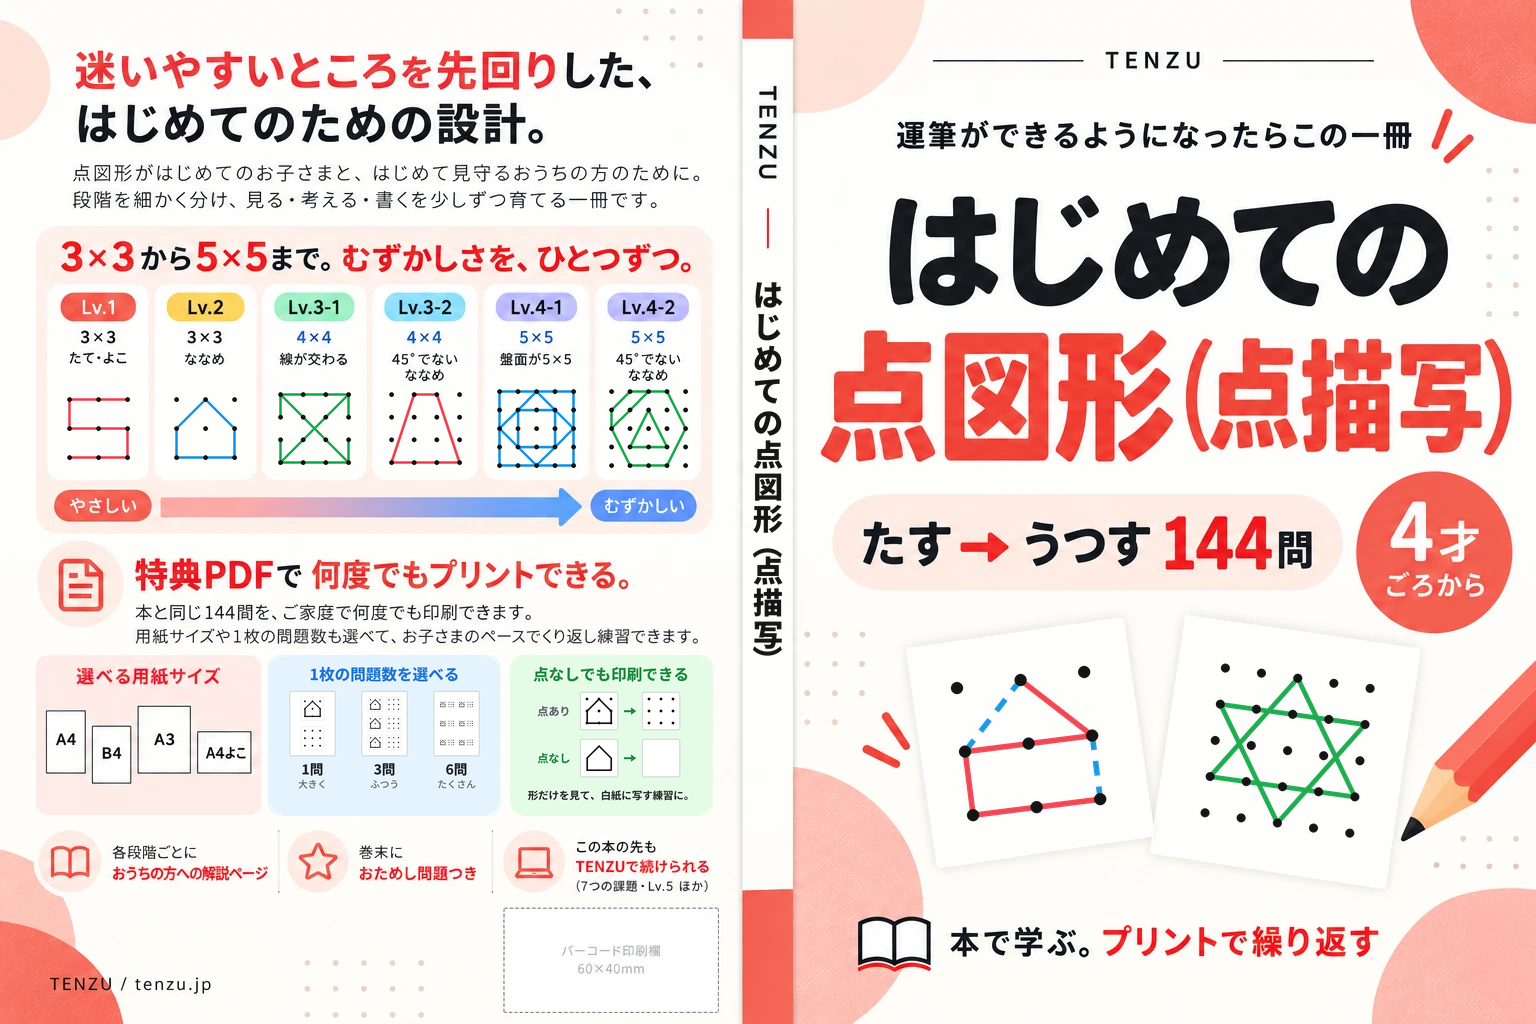
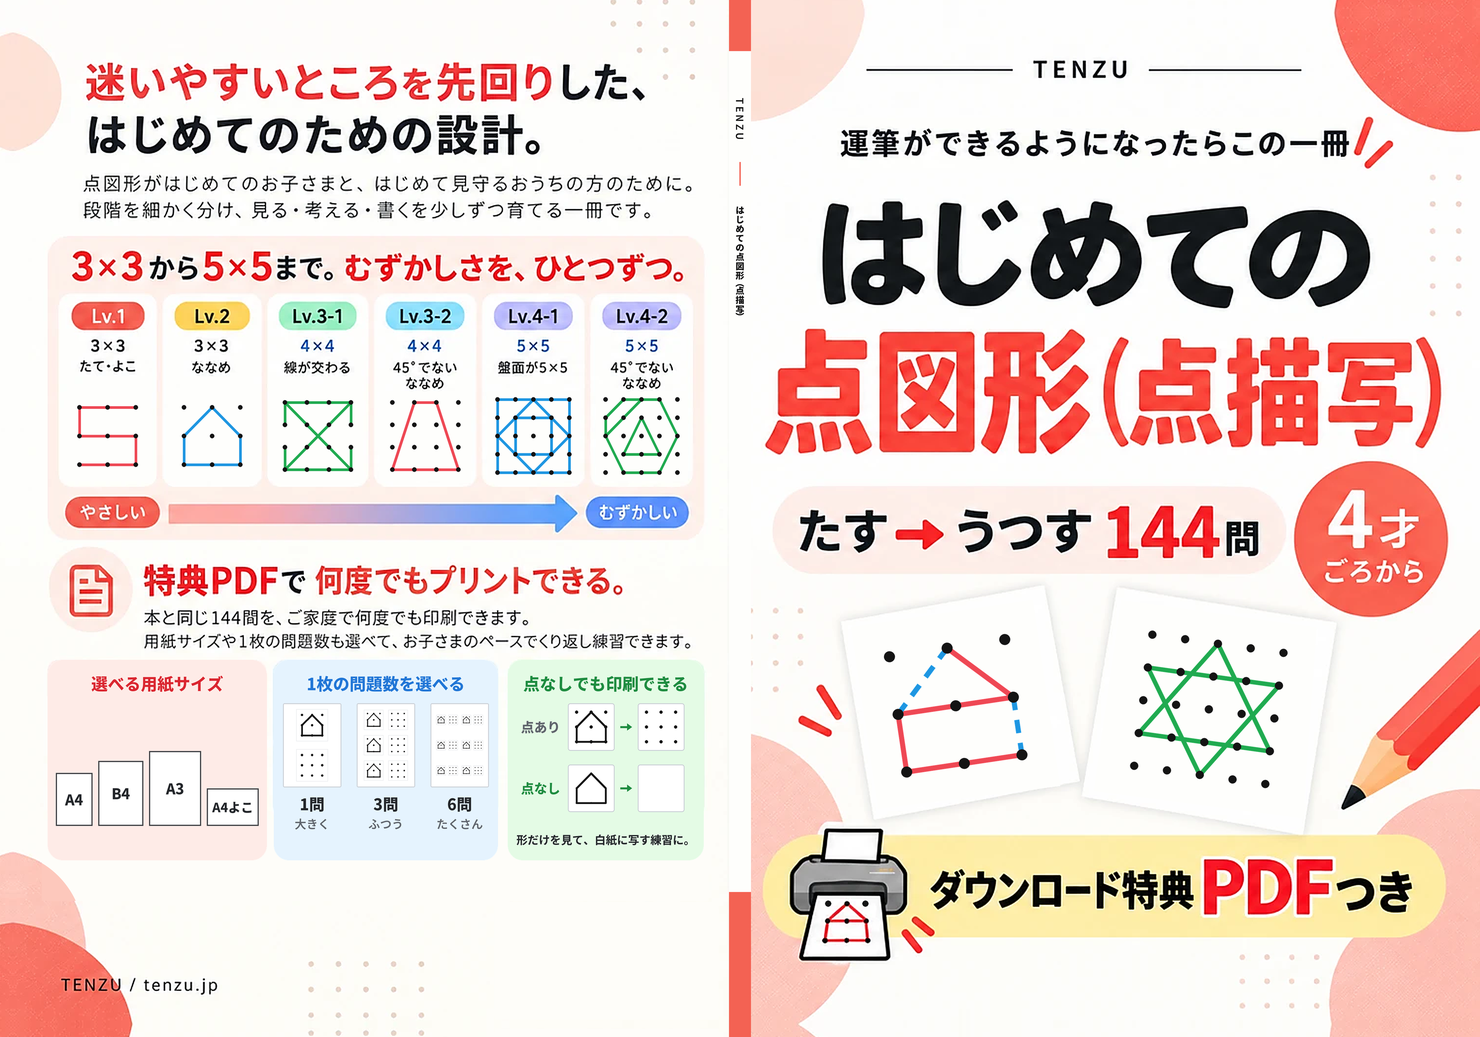
fix(kdp,coupon): 表紙の背幅を98ページ（5.6056mm）で組み直し、クーポンの「メールにつき1回」の文言を画面から外す
- cover-plan1-kdp.py：SPINE を 98×0.0572 に、背の題名は左右1.6mmを空けて文字幅2.4mmに。全幅 376.0056mm
- CouponField の注記と ALREADY_USED から「1つのメールアドレスにつき1回」を外す（抜け道を教えないため）

diff --git a/web/app/lib/coupon.ts b/web/app/lib/coupon.ts
@@ -22,7 +22,7 @@ export const PURCHASED_COOKIE = "tenzu_purchased";
 /** ブラウザが受け付ける最長（400日）。買い物のたびに延びる。 */
 export const PURCHASED_TTL = 60 * 60 * 24 * 400;
 export const ALREADY_PURCHASED = "このクーポンは、TENZUではじめてのお買い物のときだけ使えます。";
-export const ALREADY_USED = "このクーポンは、1つのメールアドレスにつき1回だけ使えます。";
+export const ALREADY_USED = "このクーポンは、このメールアドレスではご利用済みです。";
 /** Promotion Code の metadata `tenzu_rule` で「メールごとに1回」を示す値。 */
 export const ONCE_PER_EMAIL = "once-per-email";
 

diff --git a/web/app/components/CouponField.tsx b/web/app/components/CouponField.tsx
@@ -62,7 +62,7 @@ export default function CouponField({ onChange }: {
             <input type="email" autoComplete="email" value={email}
               onChange={(e) => { setEmail(e.target.value); onChange({ coupon, email: e.target.value }); }} />
           </label>
-          <p className="coupon-field-note">決済画面でも、このメールアドレスを使います。1つのメールアドレスにつき1回です。</p>
+          <p className="coupon-field-note">決済画面でも、このメールアドレスを使います。</p>
         </>
       )}
     </details>

diff --git a/docs/drafts/kdp/first-patterns-216/cover-plan1-redraw.py b/docs/drafts/kdp/first-patterns-216/cover-plan1-redraw.py
@@ -1,4 +1,4 @@
-"""表紙案（cover-plan1-v2-source.webp）を直す。図形＝公開済みの実問題・背の題名・裏の2パネル（案A/案B）。
+"""表紙案（cover-plan1-v2-source.webp）を直す。図形＝公開済みの実問題・背の題名・裏の3パネル（下段を外して大きく）。
 座標はすべて元画像（1536×1024）の px。K 倍で書き出すと、元画像は拡大し、描き直す部分は K 倍の解像度で描く。
 使い方: python cover-plan1-redraw.py <src> <published_dir> <outdir> [K]"""
 import json, math, sys
@@ -170,8 +170,12 @@ class Panel:
 
 
 HOUSE = problem("copy-lv2-vol1", 4)
-PX0, PY0, PX1, PY1 = 269, 655, 712, 816  # 青と緑の2枚が占める範囲
-BX1, GX0 = 500, 510
+# 裏の3枚（用紙サイズ・問題数・点なし）。下段を外した分だけ下へ伸ばし、文字と絵を大きくする。
+# 下端 858 は KDP が右下に置くバーコード（元画像の y 877 あたりから下）にかからない高さ。
+PY0, PY1 = 655, 858
+PINK_X, BLUE_X, GREEN_X = (36, 262), (269, 500), (510, 712)
+PINK_BG = (254, 235, 231)
+RED_T = (218, 38, 48)
 
 
 def sheet(p, x, y, w, h, rows, cols, stacked=False):
@@ -198,84 +202,71 @@ def sheet(p, x, y, w, h, rows, cols, stacked=False):
                              max(0.35, pane * 0.035) * SS, max(0.45, pane * 0.05) * SS)
 
 
-def variant_a(base):
-    """案A：仕上がりの紙面を見せる（2枚のまま、中身を実物に近い図へ）。"""
-    b = Panel(PX0, PY0, BX1, PY1, BLUE_BG)
-    W = BX1 - PX0
-    b.text(W / 2, 19, "1枚の問題数を選べる", 15.5, BLUE_T, 800)
-    sw, sh, top = 46, 65, 36
-    xs = [W / 2 - 72, W / 2, W / 2 + 72]
+def panels(base):
+    p = Panel(PINK_X[0], PY0, PINK_X[1], PY1, PINK_BG)
+    W = PINK_X[1] - PINK_X[0]
+    p.text(W / 2, 24, "選べる用紙サイズ", 17, RED_T, 800)
+    s_ = 0.18  # mm → px
+    papers = [("A4", 210, 297), ("B4", 257, 364), ("A3", 297, 420), ("A4よこ", 297, 210)]
+    gap = 6
+    total = sum(w * s_ for _, w, _ in papers) + gap * (len(papers) - 1)
+    x = W / 2 - total / 2
+    base_y = 168
+    for label, w, h in papers:
+        w, h = w * s_, h * s_
+        p.rect(x, base_y - h, x + w, base_y, fill=(255, 255, 255, 255), outline=(60, 62, 66), width=1.1)
+        p.text(x + w / 2, base_y - h / 2, label, 13 if len(label) > 2 else 15, TXT, 800)
+        x += w + gap
+    p.paste(base)
+
+    b = Panel(BLUE_X[0], PY0, BLUE_X[1], PY1, BLUE_BG)
+    W = BLUE_X[1] - BLUE_X[0]
+    b.text(W / 2, 24, "1枚の問題数を選べる", 17, BLUE_T, 800)
+    sw, sh, top = 60, 85, 44
+    xs = [W / 2 - 76, W / 2, W / 2 + 76]
     for x, (rows, cols), num, sub in zip(xs, [(1, 1), (3, 1), (3, 2)], ["1問", "3問", "6問"], ["大きく", "ふつう", "たくさん"]):
         sheet(b, x - sw / 2, top, sw, sh, rows, cols, stacked=rows == 1)
-        b.text(x, top + sh + 13, num, 13.5, TXT, 800)
-        b.text(x, top + sh + 28, sub, 9.5, SUB, 500)
+        b.text(x, top + sh + 17, num, 16, TXT, 800)
+        b.text(x, top + sh + 37, sub, 12, SUB, 600)
     b.paste(base)
 
-    g = Panel(GX0, PY0, PX1, PY1, GREEN_BG)
-    W = PX1 - GX0
-    g.text(W / 2, 19, "点なしでも印刷できる", 15.5, GREEN_T, 800)
-    pane, rowy = 38, [37, 84]
+    g = Panel(GREEN_X[0], PY0, GREEN_X[1], PY1, GREEN_BG)
+    W = GREEN_X[1] - GREEN_X[0]
+    g.text(W / 2, 24, "点なしでも印刷できる", 17, GREEN_T, 800)
+    pane, rowy = 48, [44, 106]
     for (y, label, dots) in zip(rowy, ["点あり", "点なし"], [True, False]):
-        g.text(44, y + pane / 2, label, 11, GREEN_T if not dots else SUB, 800)
-        x1 = 70
-        g.rect(x1, y, x1 + pane, y + pane, fill=(255, 255, 255, 255), outline=LINE, width=0.7, r=2)
-        g.problem(x1 + 7, y + 7, pane - 14, HOUSE, dots=dots, line_w=1.6, dot_r=1.3)
+        g.text(34, y + pane / 2, label, 13.5, GREEN_T if not dots else SUB, 800)
+        x1 = 62
+        g.rect(x1, y, x1 + pane, y + pane, fill=(255, 255, 255, 255), outline=LINE, width=0.8, r=2.5)
+        g.problem(x1 + 9, y + 9, pane - 18, HOUSE, dots=dots, line_w=1.9, dot_r=1.55)
         g.arrow(x1 + pane + 12, y + pane / 2)
         x2 = x1 + pane + 24
-        g.rect(x2, y, x2 + pane, y + pane, fill=(255, 255, 255, 255), outline=LINE, width=0.7, r=2)
+        g.rect(x2, y, x2 + pane, y + pane, fill=(255, 255, 255, 255), outline=LINE, width=0.8, r=2.5)
         if dots:
-            g.problem(x2 + 7, y + 7, pane - 14, HOUSE, dots=True, lines=False, dot_r=1.3)
-    g.text(W / 2, 140, "形だけを見て、白紙に写す練習に。", 10.5, TXT, 700)
+            g.problem(x2 + 9, y + 9, pane - 18, HOUSE, dots=True, lines=False, dot_r=1.55)
+    g.text(W / 2, 182, "形だけを見て、白紙に写す練習に。", 11.5, TXT, 700)
     g.paste(base)
 
 
-def chip(p, x, y, label, sel, color, h=17, px=10.5, minw=0):
-    w = max(minw, len(label) * px + 12)
-    if sel:
-        p.rect(x, y, x + w, y + h, fill=color + (255,), r=h / 2)
-        p.text(x + w / 2, y + h / 2, label, px, (255, 255, 255), 800)
-    else:
-        p.rect(x, y, x + w, y + h, fill=(255, 255, 255, 255), outline=(190, 205, 222), width=0.8, r=h / 2)
-        p.text(x + w / 2, y + h / 2, label, px, TXT, 600)
-    return x + w + 4
+# ---- 裏の下段（巻末のおためし・この本の先）は外す：KDP のバーコードが右下にかかるため ----
+ROW = (30, 818, 716, 898)  # 消す範囲（端を含む）
+ROW_PAGE = (254, 253, 249)
+BIGPINK = (253, 200, 188)  # 左下の大きい円
+BIG_CIRCLE = (-15.11, 936.09, 87.96)  # 縁から当てはめた中心と半径
 
 
-def variant_b(base):
-    """案B：設定を Web の画面と同じ言葉で並べる（2枚を1枚にまとめる）。"""
-    ImageDraw.Draw(base).rectangle([(BX1 - 2) * K, (PY0 - 3) * K, (PX1 + 5) * K, (PY1 + 3) * K], fill=PAGE)
-    p = Panel(PX0, PY0, PX1, PY1, BLUE_BG)
-    W = PX1 - PX0
-    p.text(14, 19, "問題数も点も、自分で選べる。", 15.5, BLUE_T, 800, anchor="lm")
-    col = [14, W / 2 + 6]
-    rows = [38, 86]
-    items = [
-        (col[0], rows[0], "1枚の問題数", [("1問", True), ("2問", False), ("3問", False), ("4問", False), ("6問", False)]),
-        (col[1], rows[0], "背景の点", [("つける", False), ("とる（白紙）", True)]),
-        (col[0], rows[1], "点の大きさ", None),
-        (col[1], rows[1], "名前・日付の欄", [("つける", True), ("つけない", False)]),
-    ]
-    for x, y, label, chips in items:
-        p.text(x, y + 6, label, 10.5, SUB, 700, anchor="lm")
-        cx = x
-        if chips is None:  # 点の大きさは点そのもので見せる
-            for i, (lab, r) in enumerate([("小", 1.6), ("中", 2.4), ("大", 3.3)]):
-                sel = i == 1
-                w = 40
-                p.rect(cx, y + 15, cx + w, y + 32, fill=(BLUE_T + (255,)) if sel else (255, 255, 255, 255),
-                       outline=None if sel else (190, 205, 222), width=0.8, r=8.5)
-                dc = (255, 255, 255) if sel else INK
-                p.d.ellipse([(cx + 11 - r) * SS, (y + 23.5 - r) * SS, (cx + 11 + r) * SS, (y + 23.5 + r) * SS], fill=dc)
-                p.text(cx + 26, y + 23.5, lab, 10.5, (255, 255, 255) if sel else TXT, 800 if sel else 600)
-                cx += w + 4
-        else:
-            for lab, sel in chips:
-                cx = chip(p, cx, y + 15, lab, sel, BLUE_T, minw=30)
-    p.d.line([W / 2 * SS, 34 * SS, W / 2 * SS, 124 * SS], fill=(205, 220, 236), width=SS)
-    p.text(W / 2, 143, "選んだとおりの紙面で、PDFを何度でも印刷できます。", 10.5, TXT, 700)
-    p.paste(base)
+def clear_row(im):
+    x0, y0, x1, y1 = ROW
+    W, H = (x1 - x0 + 1) * K, (y1 - y0 + 1) * K
+    ImageDraw.Draw(im).rectangle([x0 * K, y0 * K, x0 * K + W - 1, y0 * K + H - 1], fill=ROW_PAGE)
+    big = Image.new("L", (W * SS, H * SS), 0)
+    bx, by, br = BIG_CIRCLE
+    cx, cy, r = (bx + 0.5 - x0) * K * SS, (by + 0.5 - y0) * K * SS, br * K * SS
+    ImageDraw.Draw(big).ellipse([cx - r, cy - r, cx + r, cy + r], fill=255)
+    im.paste(BIGPINK, (x0 * K, y0 * K), big.resize((W, H), Image.LANCZOS))
 
 
-for name, fn in (("A", variant_a), ("B", variant_b)):
-    img = Image.open(f"{OUT}/base.png").convert("RGB")
-    fn(img)
-    img.save(f"{OUT}/cover-{name}.png")
+img = Image.open(f"{OUT}/base.png").convert("RGB")
+clear_row(img)
+panels(img)
+img.save(f"{OUT}/cover-A.png")

diff --git a/docs/drafts/kdp/first-patterns-216/cover-plan1-kdp.py b/docs/drafts/kdp/first-patterns-216/cover-plan1-kdp.py
@@ -1,17 +1,19 @@
 """採用表紙（案1・A）を KDP 入稿用の1枚の PDF に組む。
 cover-plan1-redraw.py を K=3 で書き出した画像から裏・表を切り出し、B5（182×257mm）の仕上がりへ合わせて
-300dpi に置く。背（108ページ・白い紙＝6.1776mm）は元画像の背が太すぎるため、ここで描き直す。
-使い方: python cover-plan1-kdp.py <redraw の K=3 出力 cover-A.png> <outdir>"""
+300dpi に置く。背（98ページ・白い紙＝5.6056mm）は元画像の背が太すぎるため、ここで描き直す。
+表表紙は cover-plan1-front8.py の K=3 出力（表表紙の範囲だけ）を渡すと、そちらを使う。
+使い方: python cover-plan1-kdp.py <redraw の K=3 出力 cover-A.png> <outdir> [front8 の K=3 出力]"""
 import io, sys
 import fitz
 import numpy as np
 from PIL import Image, ImageDraw, ImageFont
 
 SRC, OUT = sys.argv[1:3]
+FRONT_SRC = sys.argv[3] if len(sys.argv) > 3 else None
 K = 3
 DPI = 300
 TRIM_W, TRIM_H, BLEED = 182.0, 257.0, 3.2
-SPINE = 108 * 0.0572
+SPINE = 98 * 0.0572
 MM = 72 / 25.4
 px = lambda mm: round(mm / 25.4 * DPI)
 
@@ -32,16 +34,22 @@ assert hi.size == (1536 * K, 1024 * K), hi.size
 ImageDraw.Draw(hi).rectangle([v * K for v in BARCODE_BOX], fill=PAGE)
 
 
-def panel(x0, x1, outer):
-    """切り出し → 仕上がり寸法へ → 外側・上下に塗り足し（端の折り返し）。"""
-    art = hi.crop((x0 * K, 0, x1 * K, hi.height)).resize((px(TRIM_W), px(TRIM_H)), Image.LANCZOS)
+def panel(art, outer):
+    """仕上がり寸法へ → 外側・上下に塗り足し（端の折り返し）。"""
+    art = art.resize((px(TRIM_W), px(TRIM_H)), Image.LANCZOS)
     b = px(BLEED)
     side = (b, 0) if outer == "left" else (0, b)
     return Image.fromarray(np.pad(np.asarray(art), ((b, b), side, (0, 0)), mode="reflect"))
 
 
-back = panel(*BACK_X, "left")
-front = panel(*FRONT_X, "right")
+back = panel(hi.crop((BACK_X[0] * K, 0, BACK_X[1] * K, hi.height)), "left")
+if FRONT_SRC:
+    # front.py の出力は右の塗り足しまで元画像の続きで持っている（折り返すと端の鉛筆が「く」の字に見える）。上下だけ折り返す。
+    art = Image.open(FRONT_SRC).convert("RGB").resize((px(TRIM_W) + px(BLEED), px(TRIM_H)), Image.LANCZOS)  # 裏と同じ画素数（300dpi を割らない）
+    b = px(BLEED)
+    front = Image.fromarray(np.pad(np.asarray(art), ((b, b), (0, 0), (0, 0)), mode="reflect"))
+else:
+    front = panel(hi.crop((FRONT_X[0] * K, 0, FRONT_X[1] * K, hi.height)), "right")
 
 
 def font(size, w):
@@ -72,7 +80,7 @@ def spine():
     d.line([cx, y, cx, y + px(6) * SS], fill=CAP, width=round(px(0.35) * SS))
     y += px(6) * SS + px(5) * SS
 
-    em = px(2.9) * SS  # 文字幅 2.9mm（背 6.18mm − 左右 1.6mm）
+    em = px(SPINE - 3.2) * SS  # 文字幅 2.4mm（背 5.61mm − 左右 1.6mm）
     f = font(round(em * 0.94), 900)
     for ch in "はじめての点図形（点描写）":
         paren = ch in "（）"

diff --git a/docs/drafts/kdp/first-patterns-216/cover-plan1-brief.md b/docs/drafts/kdp/first-patterns-216/cover-plan1-brief.md
@@ -13,7 +13,7 @@
 | 裏・下段 | 「この本の先も、同じレベルで」の枠を足す | 本＝Webへの入口という役割を裏で受け持つ |
 | 裏・最下部 | 業態識別句「点図形（点描写）プリントの専門店 TENZU」を入れる | brand.md の必須併記 |
 | 裏・右下 | バーコード用の純白の空き（50.8×30.5mm＋余白） | KDP が自動で配置する |
-| 背 | 生成させない | 108p・白い紙で背幅約6.2mm。組み立て時に入れる |
+| 背 | 生成させない | 98p・白い紙で背幅約5.6mm。組み立て時に入れる |
 
 段階図の盤面に描く図形と、表の点図形は、生成のあとで公開済みの問題データから描いた図に差し替える（生成した図形は線の位置がずれるため）。生成時は点の盤面だけを描かせる。
 
@@ -104,10 +104,15 @@
 - 図形：裏の6段階カードと表の2枚を、本に入っている問題（公開済みJSON・本と同じD昇順の番号）で描く。Lv.1＝copy-lv1-vol1の12、Lv.2＝copy-lv2-vol1の4、Lv.3-1＝copy-lv3-vol1の1、Lv.3-2＝copy-lv3-vol2の1、Lv.4-1＝copy-lv4-vol1の2、Lv.4-2＝copy-lv4-vol2の11、表・左（たす）＝fill-lv2-vol1の8、表・右（うつす）＝copy-lv4-vol2の3
 - 背：「はじめての点図形（点描写）」を全部黒・同じ大きさで縦に組む
 - 裏の青・緑のパネル（案A）：1問・3問・6問のミニ紙面と、「点あり／点なし」の2段
+- 裏の下段（案3）：「各段階ごとに おうちの方への解説ページ」を外し、「巻末に おためし問題つき」と「この本の先も、TENZUで続けられる」＋7つの課題（鏡・移動・回転・かさね・分解・折り重ね・立体模写）と Lv.5 の小札を並べる。左下の大きい円は縁から当てはめた円で描き戻す
 
 座標は1536×1024の生成画像に合わせた実測値。入稿用の高解像度画像が来たら、座標を測り直して同じ描き直しをかける。
 
 残り：入稿解像度（原寸300dpi）・「4才ごろから」「Lv.3-1」表記の扱い・背幅6.18mmでの背の組み直し・KDPテンプレートでのバーコード位置の照合。
+
+### 98ページの背幅（2026-10-28）
+
+本文を98ページにしたため、背幅は 98×0.0572mm＝**5.6056mm**、全幅は 3.2＋182＋5.6056＋182＋3.2＝**376.0056mm**（高さ 263.4mm のまま）。背の題名は左右 1.6mm ずつ空けて文字幅 2.4mm（108ページ版は 2.9mm）。`cover-plan1-kdp.py` の `SPINE` と文字幅をこれに合わせ、組み立てをやり直した（裏・表の絵は変わらない。/book の表紙画像 hajimete-cover.jpg も表表紙の中身は同じなので作り直さない）。以下の「108ページ」「6.18mm」「376.58mm」の記述は、この節の数字に読み替える。KDP の表紙テンプレートに 98ページ・白い紙で合わせて、バーコード位置と背の余白を照合すること。
 
 ### 入稿用 PDF
 
@@ -117,3 +122,21 @@
 2. `python cover-plan1-kdp.py <out>/cover-A.png .` で裏・表を切り出して182×257mmへ合わせ、塗り足し3.2mm（端の折り返し）を付け、背6.1776mm（108ページ・白い紙）を描き直して1枚に組む
 
 元画像の背は実寸の約2倍の幅だったため、背は組み立て時に作る（上下の赤い帯・TENZU・短い赤線・題名。文字幅2.9mmで左右1.6mm以上あける）。生成画像のバーコード欄の点線と文字は消してある。縦横の比が仕上がりと違うため、絵は縦に約2%伸びている。生成画像を拡大した部分の小さい文字は、300dpi で見るとわずかに甘い。
+
+### 表表紙の差し替え（特典PDFの帯）
+
+本で学べる量が少ないため、表の下を「本で学ぶ。プリントで繰り返す」から「ダウンロード特典PDFつき」の帯（プリンターの絵＋黄色い帯）へ替えた。オーナーの生成画像は[cover-plan1-front-source.webp](cover-plan1-front-source.webp)（1536×1024）で、表表紙だけをこちらから取る。裏と背は従来どおり cover-plan1-v2-source.webp から作る（生成し直しの裏には「おうちん方方」「立体構成」などの誤字が入っていたため使わない）。
+
+[cover-plan1-front.py](cover-plan1-front.py) が表に次の3点をかける。
+
+- 2枚のカードを収録問題で描き直す（左＝fill-lv2-vol1 の8、右＝copy-lv4-vol2 の3）
+- キャッチ行の誤字「ここの一冊」を、v2 の生成画像の「この一冊」の行で置き換える
+- プリンターの紙の家（3×3）に抜けていた上の角の2点を足す
+
+表表紙の範囲は x 798〜1523（725×1024＝B5 と同じ縦横比）。右の塗り足しは折り返さず、元画像の続き（1523〜1536）を使う（折り返すと右端にかかる鉛筆が「く」の字に見える）。題名の左右・「4才」の丸・帯の端はどれも仕上がりから 4mm 以上内側。
+
+組み立て：`python cover-plan1-front.py cover-plan1-front-source.webp cover-plan1-v2-source.webp <published> <out>/front.png 3` → `python cover-plan1-kdp.py <redraw の K=3 出力 cover-A.png> . <out>/front.png`。[cover-plan1-fix.png](cover-plan1-fix.png) は組み上がりのプレビューと同じ画像（背は実寸・バーコード欄の生成枠なし）。
+
+### 裏の下段を外す（KDP のバーコード）
+
+KDP Previewer で、KDP が裏の右下に置くバーコード（50.8×30.5mm・仕上がり下端と背から約6mm内側）が下段の「この本の先も」にかかった。下段（巻末のおためし・この本の先）は外し、空いた分で裏の3枚（用紙サイズ・問題数・点なし）を下へ伸ばして文字と絵を大きくした（元画像の y 655〜858。見出し 17px・本文 11.5〜16px）。3枚の下端は仕上がりで約215mm、バーコード欄の上端の目安は約220mm。用紙サイズの1枚もこちらで描き直している（実寸比の A4・B4・A3・A4よこ）。
